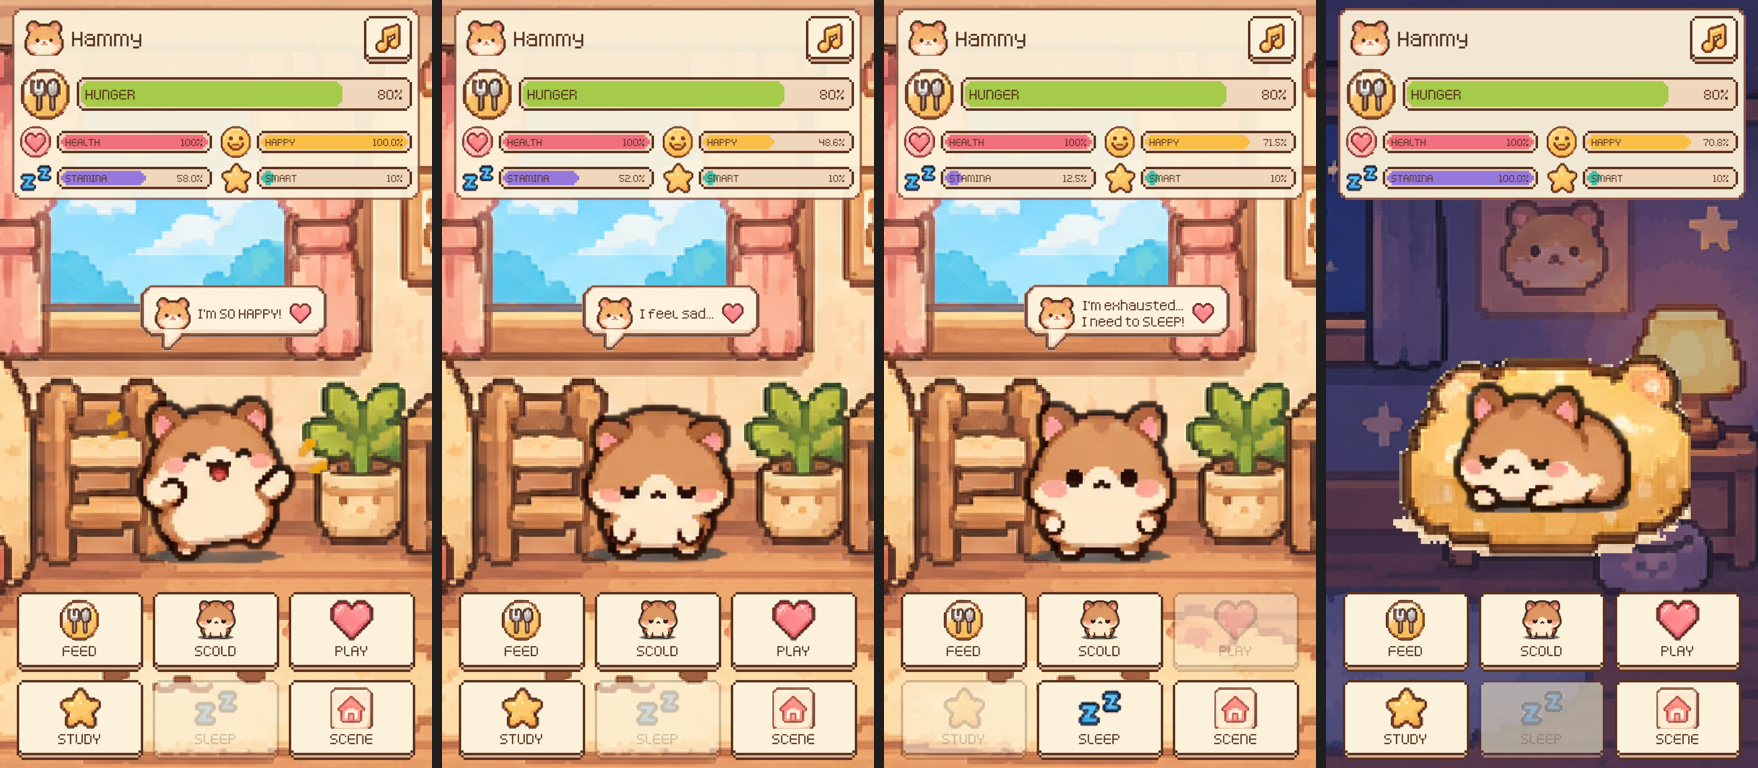
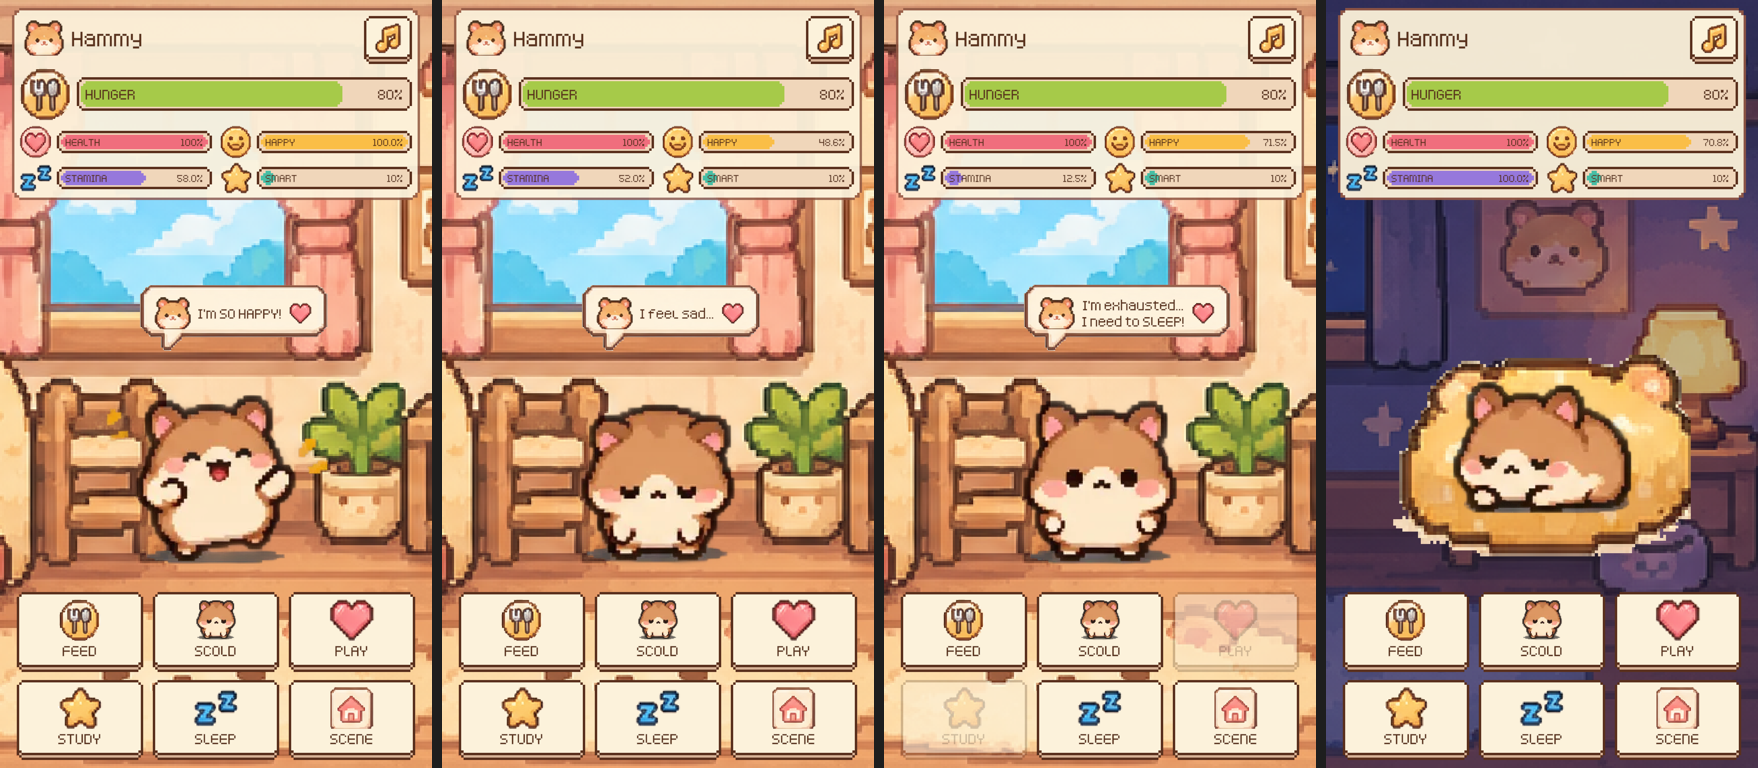
Update screenshots and README for the sleep refusal

Changed region(s): [[0.8294, 0.875, 0.9215, 1.0], [0.3379, 0.875, 0.43, 1.0], [0.0922, 0.875, 0.1843, 1.0]]

diff --git a/Assets/Editor/ScreenshotCapture.cs b/Assets/Editor/ScreenshotCapture.cs
@@ -30,7 +30,7 @@ public static class ScreenshotCapture
 
     /// <summary>
     /// Poses the scene in the activity's states (happy at 100, sad at 50 or below, exhausted with
-    /// Play/Study locked and Sleep unlocked, sleeping) plus eating/playing/sick, and renders each.
+    /// Play/Study locked, sleeping) plus eating/playing/sick, and renders each.
     /// </summary>
     [MenuItem("Tamagotchi/Capture State Screenshots")]
     public static void CaptureStates()
@@ -52,7 +52,6 @@ public static class ScreenshotCapture
             StartOfGame(71.5f, 12.5f); // stamina below 20
             Lock("PlayButton", true);
             Lock("StudyButton", true);
-            Lock("SleepButton", false);
             SetBubble("I'm exhausted...\nI need to SLEEP!");
         });
         Render("Docs/state_sleeping.png", () =>
@@ -103,7 +102,6 @@ public static class ScreenshotCapture
         bool exhausted = stamina < 20f;
         Lock("PlayButton", exhausted);
         Lock("StudyButton", exhausted);
-        Lock("SleepButton", !exhausted);
     }
 
     /// <summary>Same look as UIManager.SetUnlocked: locked buttons are faded out.</summary>

diff --git a/README.md b/README.md
@@ -10,7 +10,7 @@ and it gets **sick**.
 <p align="center"><img src="Docs/states_overview.png" alt="Happy at 100, sad at 50, exhausted with Play/Study locked, sleeping" width="720"></p>
 
 > Screenshots generated with **Tamagotchi → Capture Screenshot** / **Capture State Screenshots**
-> (states left to right: happy at 100, sad at 50 or below, exhausted with PLAY/STUDY locked and SLEEP unlocked, sleeping).
+> (states left to right: happy at 100, sad at 50 or below, exhausted with PLAY/STUDY locked, sleeping).
 
 ## Download & play
 
@@ -35,8 +35,8 @@ yellow **HAPPY** bar; both show one decimal). All numbers live in `Assets/Data/P
 | Study -0.5 happiness | STUDY (also uses 5 stamina, +5 smart) | `PetStats.Study` | `Rule_Study_RemovesHalfHappiness` |
 | Eat adds stamina and happiness | FEED: stamina +5, happiness +2 (and hunger +25) | `PetStats.Feed` | `Rule_Eat_AddsStaminaAndHappiness` |
 | Sleep restores stamina to full | SLEEP: stamina = 100, short 3 s nap, wakes by itself | `PetStats.Sleep` | `Rule_Sleep_RestoresStaminaToFull` |
-| Stamina < 20 locks Play/Study | PLAY and STUDY fade out and can't be pressed | `PetStats.CanPlay/CanStudy`, `GameManager.RefreshLocks` | `Rule_StaminaBelow20_LocksPlayAndStudy`, `Rule_ButtonsLockAndUnlockWithStamina` |
-| Sleep only when stamina < 20 | SLEEP is faded/locked until stamina drops below 20 | `PetStats.CanSleep` | `Rule_SleepOnlyUnlockedBelow20Stamina` |
+| Stamina < 20 locks Play/Study | PLAY and STUDY fade out and can't be pressed | `PetStats.CanPlay/CanStudy`, `GameManager.RefreshLocks` | `Rule_StaminaBelow20_LocksPlayAndStudy`, `Rule_PlayStudyLockBelow20_SleepAlwaysPressable` |
+| Sleep only when stamina < 20 | The SLEEP button always works, but the pet only sleeps below 20 stamina; otherwise it says "I can't sleep... I'm not sleepy yet!" | `PetStats.CanSleep/Sleep`, `GameManager.OnActionPressed` | `Rule_SleepOnlyUnlockedBelow20Stamina`, `Rule_SleepRefusedAt20OrMore_WithMessage` |
 | Happiness exactly 100 → happy | Happy animation + jingle + "I'm SO HAPPY!" | `PetStats.ReachedFullHappiness`, `PetController.OnFullHappiness` | `Rule_ReachingExactly100_TriggersHappy`, `Rule_Happiness100_PlaysHappyAnimation` |
 | Happiness ≤ 50 → sad | Sad animation + "I feel sad..." while ≤ 50 | `PetStats.IsSad`, `PetController.BaseState` | `Rule_Happiness50OrBelow_IsSad`, `Rule_Happiness50_PlaysSadAnimation` |
 
@@ -56,9 +56,9 @@ before pressing Play.
    below the hamster switches to the sad animation and says "I feel sad...".
 4. **Stamina lock:** tap **STUDY** (and PLAY) until STAMINA is below **20**: PLAY and STUDY fade out and can't
    be pressed; the hamster says "I'm exhausted... I need to SLEEP!".
-5. **Sleep unlocks only when low:** point out that SLEEP was faded the whole time and is now active. Tap
-   **SLEEP**: stamina jumps to **100.0%**, the hamster naps in its bed, then SLEEP locks again and PLAY/STUDY
-   unlock.
+5. **Sleep only works when low:** early in the video (stamina above 20) tap **SLEEP**: the hamster refuses with
+   "I can't sleep... I'm not sleepy yet!". Now, with stamina below 20, tap **SLEEP** again: stamina jumps to
+   **100.0%**, the hamster naps in its bed, and PLAY/STUDY unlock.
 
 ## Status
 
@@ -82,8 +82,8 @@ before pressing Play.
 - **Health** drops while Hunger is at 0, and slowly recovers while Hunger is above 50%.
 - **Sick / game over:** if Health reaches 0, **or Hunger stays at 0 for 30 seconds**, the pet gets
   sick. A game-over card with the crying hamster and a **Restart** button appears.
-- **Sleep** (only unlocked below 20 stamina) restores stamina to full at once; the pet naps in its bed
-  for 3 seconds and wakes up by itself (or when you do anything else).
+- **Sleep** works only below 20 stamina (above that the pet says "I can't sleep... I'm not sleepy yet!")
+  and restores stamina to full at once; the pet naps in its bed for 3 seconds and wakes up by itself.
 - **Full-screen scenes:** the background fills the whole screen behind the UI. The **Scene** button
   cycles through 6 pixel-art backgrounds (default: cozy home). The stats sit at the top and the
   buttons at the bottom, leaving the middle clear so nothing covers the pet.
@@ -129,7 +129,7 @@ before pressing Play.
 | Feed (Eat) | Stamina +5, Happiness +2, Hunger +25 |
 | Play | Happiness **+0.5**, Stamina −2, Hunger −1 · **locked while Stamina < 20** |
 | Study | Happiness **−0.5**, Stamina −5, Smart +5 · **locked while Stamina < 20** |
-| Sleep | Stamina back to **100**, 3 s nap · **only unlocked while Stamina < 20** |
+| Sleep | Stamina back to **100**, 3 s nap · **only works while Stamina < 20** (otherwise: "I'm not sleepy yet!") |
 | Scold | Happiness −10, sad reaction ("Sniff... I'm sorry!") |
 | Scene | Changes the background (cozy home → sunny garden → beach → forest stream → sunset rooftop → moonlit bedroom) |
 | ♪ (top right) | Mute / unmute music and sounds (remembered next time; the icon fades while muted) |
@@ -338,8 +338,9 @@ edit the list in `Assets/Editor/MainSceneBuilder.cs` (`SetSounds`) instead.
 9. Try it:
    - **FEED / PLAY / STUDY:** the bars change and the speech bubble above the hamster reacts.
    - **SCOLD:** the hamster looks sad and says sorry; Happiness goes down.
-   - **STUDY / PLAY** until stamina is below 20: they lock and **SLEEP** unlocks. **SLEEP:** stamina refills
-     to 100, the hamster naps in its bed (dimmed moonlit bedroom), then wakes up.
+   - **SLEEP** while stamina is 20 or more: the hamster says it isn't sleepy yet. **STUDY / PLAY** until
+     stamina is below 20: they lock. Now **SLEEP** works: stamina refills to 100, the hamster naps in its
+     bed (dimmed moonlit bedroom), then wakes up.
    - **PLAY:** the hamster plays and bounces, then looks happy.
    - **Tap the hamster** to pet it; watch the bars pop when a button changes them.
    - **SCENE:** the background changes.
